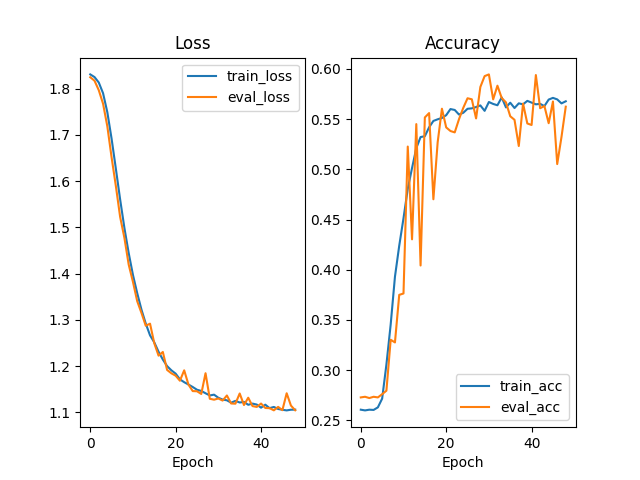
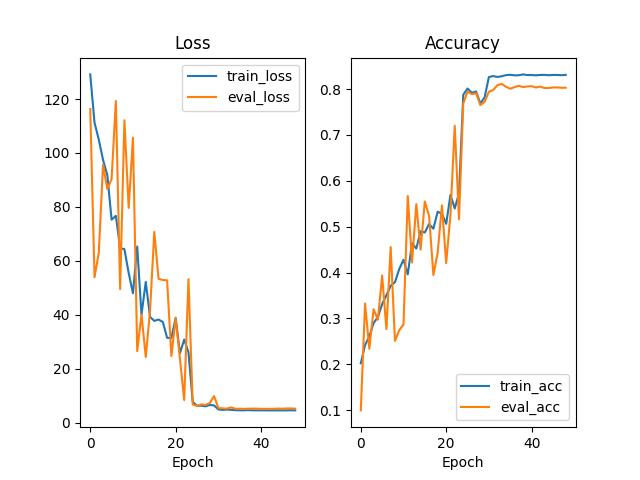
81%

diff --git a/assignment1/main.py b/assignment1/main.py
@@ -93,18 +93,20 @@ def eval_model(model : nn.Module, dataloader : DataLoader, criterion : nn.Module
 def train_mlp_drybean():
     """
     """
-    lr = 5e-3
+    lr = 2e-3
     regularization = 1e-4
+    hidden_dim = 32
 
     n_epochs = 50
     batch_size = 32
     
-    dataset = DryBeanDataset(transforms=nn.functional.normalize)
-    model = TwoLayerMLP(dataset.get_num_features(), dataset.get_num_classes(), 25)
+    # dataset = DryBeanDataset(transforms=nn.functional.normalize)
+    dataset = DryBeanDataset()
+    model = TwoLayerMLP(dataset.get_num_features(), dataset.get_num_classes(), hidden_dim)
 
     criterion = nn.CrossEntropyLoss()
     optimizer = Adam(model.parameters(), lr=lr, weight_decay=regularization)
-    lr_scheduler = ReduceLROnPlateau(optimizer, mode='min', patience=5)
+    lr_scheduler = ReduceLROnPlateau(optimizer, mode='min', patience=1)
 
     train_dataset, val_dataset, test_dataset = random_split(dataset, [0.8, 0.1, 0.1])
     train_set = DataLoader(train_dataset, batch_size=batch_size, shuffle=True)
